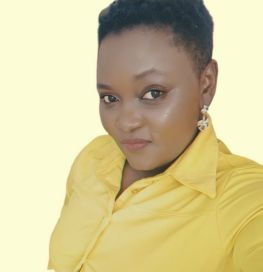
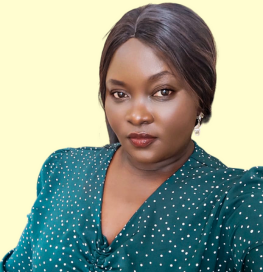
team update

diff --git a/our-mission.html b/our-mission.html
@@ -370,25 +370,104 @@
                   <h2><strong class="border-none">Meet the Team</strong></h2>
                 </header>
                 <div class="row">
-                  <div class="col-xs-12 col-sm-3 anim-section">
+                  <div class="col-xs-12 col-sm-2 col-sm-offset-1 anim-section">
                     <div class="thumbnail">
                       <figure>
-                        <img src="assets/img/team-member1.jpg" alt="" />
+                        <img
+                          src="assets/img/team-member1.jpg"
+                          alt=""
+                          class="img-responsive"
+                        />
                       </figure>
                       <div class="caption">
-                        <h3>Caflon - Chairman</h3>
+                        <h3>Caflon Chairman</h3>
+                        <ul class="social-icons">
+                          <li>
+                            <a href="https://www.facebook.com/ruigecaflon"
+                              ><i class="fa fa-facebook"></i
+                            ></a>
+                          </li>
+                          <li>
+                            <a href="https://www.instagram.com/ruujcaflon/"
+                              ><i class="fa fa-instagram"></i
+                            ></a>
+                          </li>
+                        </ul>
+                      </div>
+                    </div>
+                  </div>
+                  <div class="col-xs-12 col-sm-2 anim-section">
+                    <div class="thumbnail">
+                      <figure>
+                        <img
+                          src="assets/img/team-member2.jpg"
+                          alt=""
+                          class="img-responsive"
+                        />
+                      </figure>
+                      <div class="caption">
+                        <h3>Adoline Treasurer</h3>
+                        <ul class="social-icons">
+                          <li>
+                            <a href="https://www.facebook.com/adoline.akinyi"
+                              ><i class="fa fa-facebook"></i
+                            ></a>
+                          </li>
+                          <li>
+                            <a
+                              href="https://www.instagram.com/adolineakinyi?igsh=ZDZqaHI1Y296dWxo"
+                              ><i class="fa fa-instagram"></i
+                            ></a>
+                          </li>
+                        </ul>
+                      </div>
+                    </div>
+                  </div>
+                  <div class="col-xs-12 col-sm-2 anim-section">
+                    <div class="thumbnail">
+                      <figure>
+                        <img
+                          src="assets/img/team-member3.jpg"
+                          alt=""
+                          class="img-responsive"
+                        />
+                      </figure>
+                      <div class="caption">
+                        <h3>Eunice Marketing</h3>
+                        <ul class="social-icons">
+                          <li>
+                            <a href="https://www.facebook.com/mayinah.nice/"
+                              ><i class="fa fa-facebook"></i
+                            ></a>
+                          </li>
+
+                          <li>
+                            <a
+                              href="https://www.instagram.com/eunicemayina?igsh=MmR6eDA3MG4yMXY1#"
+                              ><i class="fa fa-instagram"></i
+                            ></a>
+                          </li>
+                        </ul>
+                      </div>
+                    </div>
+                  </div>
+                  <div class="col-xs-12 col-sm-2 anim-section">
+                    <div class="thumbnail">
+                      <figure>
+                        <img
+                          src="assets/img/team-member4.jpg"
+                          alt=""
+                          class="img-responsive"
+                        />
+                      </figure>
+                      <div class="caption">
+                        <h3>Solomon Coordinator</h3>
                         <ul class="social-icons">
                           <li>
                             <a href="#"><i class="fa fa-facebook"></i></a>
                           </li>
                           <li>
                             <a href="#"><i class="fa fa-twitter"></i></a>
-                          </li>
-                          <li>
-                            <a href="#"><i class="fa fa-pinterest"></i></a>
-                          </li>
-                          <li>
-                            <a href="#"><i class="fa fa-google-plus"></i></a>
                           </li>
                           <li>
                             <a href="#"><i class="fa fa-instagram"></i></a>
@@ -397,82 +476,29 @@
                       </div>
                     </div>
                   </div>
-                  <div class="col-xs-12 col-sm-3 anim-section">
+                  <div class="col-xs-12 col-sm-2 anim-section">
                     <div class="thumbnail">
                       <figure>
-                        <img src="assets/img/team-member2.jpg" alt="" />
+                        <img
+                          src="assets/img/team-member5.jpg"
+                          alt=""
+                          class="img-responsive"
+                        />
                       </figure>
                       <div class="caption">
-                        <h3>Adoline - Treasurer</h3>
+                        <h3>Dianah Secretary</h3>
                         <ul class="social-icons">
                           <li>
-                            <a href="#"><i class="fa fa-facebook"></i></a>
+                            <a
+                              href="https://www.facebook.com/profile.php?id=100072234442204"
+                              ><i class="fa fa-facebook"></i
+                            ></a>
                           </li>
                           <li>
-                            <a href="#"><i class="fa fa-twitter"></i></a>
-                          </li>
-                          <li>
-                            <a href="#"><i class="fa fa-pinterest"></i></a>
-                          </li>
-                          <li>
-                            <a href="#"><i class="fa fa-google-plus"></i></a>
-                          </li>
-                          <li>
-                            <a href="#"><i class="fa fa-instagram"></i></a>
-                          </li>
-                        </ul>
-                      </div>
-                    </div>
-                  </div>
-                  <div class="col-xs-12 col-sm-3 anim-section">
-                    <div class="thumbnail">
-                      <figure>
-                        <img src="assets/img/team-member3.jpg" alt="" />
-                      </figure>
-                      <div class="caption">
-                        <h3>Solomon - Coordinator</h3>
-                        <ul class="social-icons">
-                          <li>
-                            <a href="#"><i class="fa fa-facebook"></i></a>
-                          </li>
-                          <li>
-                            <a href="#"><i class="fa fa-twitter"></i></a>
-                          </li>
-                          <li>
-                            <a href="#"><i class="fa fa-pinterest"></i></a>
-                          </li>
-                          <li>
-                            <a href="#"><i class="fa fa-google-plus"></i></a>
-                          </li>
-                          <li>
-                            <a href="#"><i class="fa fa-instagram"></i></a>
-                          </li>
-                        </ul>
-                      </div>
-                    </div>
-                  </div>
-                  <div class="col-xs-12 col-sm-3 anim-section">
-                    <div class="thumbnail">
-                      <figure>
-                        <img src="assets/img/team-member4.jpg" alt="" />
-                      </figure>
-                      <div class="caption">
-                        <h3>Dianah - Secretary</h3>
-                        <ul class="social-icons">
-                          <li>
-                            <a href="#"><i class="fa fa-facebook"></i></a>
-                          </li>
-                          <li>
-                            <a href="#"><i class="fa fa-twitter"></i></a>
-                          </li>
-                          <li>
-                            <a href="#"><i class="fa fa-pinterest"></i></a>
-                          </li>
-                          <li>
-                            <a href="#"><i class="fa fa-google-plus"></i></a>
-                          </li>
-                          <li>
-                            <a href="#"><i class="fa fa-instagram"></i></a>
+                            <a
+                              href="https://www.instagram.com/dianah_febu?igsh=YXBvMWp2YmRpMmdr"
+                              ><i class="fa fa-instagram"></i
+                            ></a>
                           </li>
                         </ul>
                       </div>
@@ -482,7 +508,7 @@
               </div>
             </div>
           </div>
-          <!-- Our Team Section Start Here -->
+          <!-- Our Team Section End Here -->
 
           <!-- We Help Section Start Here -->
           <section class="we-help text-center">

diff --git a/our-story.html b/our-story.html
@@ -411,9 +411,7 @@
                           <li>
                             <a href="#"><i class="fa fa-twitter"></i></a>
                           </li>
-                          <li>
-                            <a href="#"><i class="fa fa-pinterest"></i></a>
-                          </li>
+
                           <li>
                             <a href="#"><i class="fa fa-google-plus"></i></a>
                           </li>
@@ -438,9 +436,7 @@
                           <li>
                             <a href="#"><i class="fa fa-twitter"></i></a>
                           </li>
-                          <li>
-                            <a href="#"><i class="fa fa-pinterest"></i></a>
-                          </li>
+
                           <li>
                             <a href="#"><i class="fa fa-google-plus"></i></a>
                           </li>
@@ -465,9 +461,7 @@
                           <li>
                             <a href="#"><i class="fa fa-twitter"></i></a>
                           </li>
-                          <li>
-                            <a href="#"><i class="fa fa-pinterest"></i></a>
-                          </li>
+
                           <li>
                             <a href="#"><i class="fa fa-google-plus"></i></a>
                           </li>
@@ -492,9 +486,7 @@
                           <li>
                             <a href="#"><i class="fa fa-twitter"></i></a>
                           </li>
-                          <li>
-                            <a href="#"><i class="fa fa-pinterest"></i></a>
-                          </li>
+
                           <li>
                             <a href="#"><i class="fa fa-google-plus"></i></a>
                           </li>
